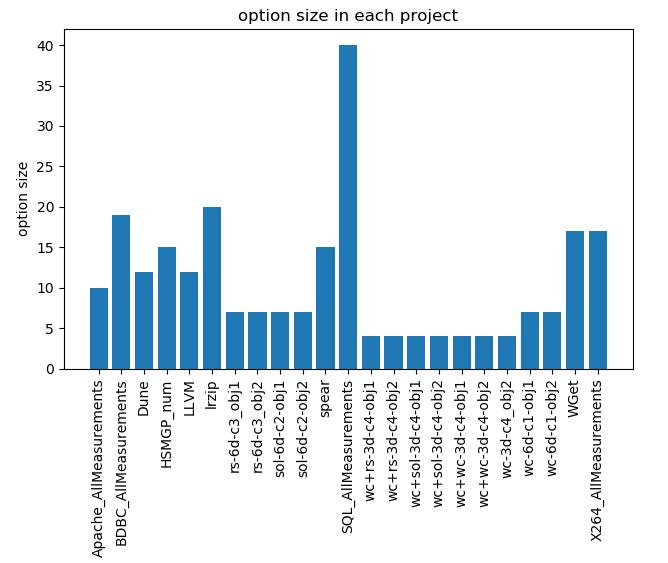
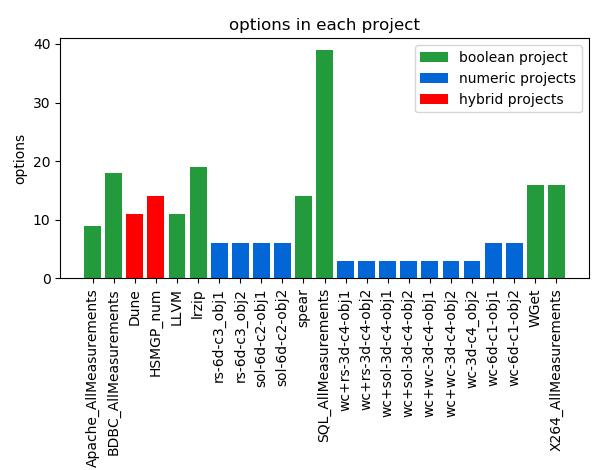
update figures

Changed region(s): [[0.0, 0.0, 0.9562, 1.0], [0.0617, 0.6553, 0.0925, 0.6851]]

diff --git a/experiments/figures_hy.py b/experiments/figures_hy.py
@@ -63,7 +63,7 @@ import numpy as np
 # index_2 = [10]
 # data_t_2 = [data[i] for i in index_2]
 
-# plt.ylabel("configurations")
+# plt.ylabel("configurations (in log scale)")
 # plt.bar(x, data,color="green",log=True)
 # plt.bar(index, data_t, color="blue",log=True)
 # plt.bar(index_2, data_t_2, color="red", log=True)
@@ -71,7 +71,7 @@ import numpy as np
 
 # plt.xticks(x, ('Apache_AllMeasurements', 'BDBC_AllMeasurements', 'Dune', 'HSMGP_num', 'LLVM', 'lrzip', 'rs-6d-c3_obj1', 'rs-6d-c3_obj2', 'sol-6d-c2-obj1', 'sol-6d-c2-obj2', 'spear', 'SQL_AllMeasurements', 'wc+rs-3d-c4-obj1', 'wc+rs-3d-c4-obj2', 'wc+sol-3d-c4-obj1', 'wc+sol-3d-c4-obj2', 'wc+wc-3d-c4-obj1', 'wc+wc-3d-c4-obj2', 'wc-3d-c4_obj2', 'wc-6d-c1-obj1', 'wc-6d-c1-obj2', 'WGet', 'X264_AllMeasurements'), rotation=90)
 # plt.title("configurations predicted as top 1 in each project")
-# plt.legend(["1 optimal config", "2 optimal configs", "1685 optimal configs"])
+# plt.legend(["1 optimal", "2 optimals", "1685 optimals"])
 
 # plt.show()
 
@@ -139,8 +139,8 @@ import numpy as np
 
 # plt.ylabel("rank difference")
 # plt.xticks(x, ('Apache_AllMeasurements', 'BDBC_AllMeasurements', 'Dune', 'HSMGP_num', 'LLVM', 'lrzip', 'rs-6d-c3_obj1', 'rs-6d-c3_obj2', 'sol-6d-c2-obj1', 'sol-6d-c2-obj2', 'spear', 'SQL_AllMeasurements', 'wc+rs-3d-c4-obj1', 'wc+rs-3d-c4-obj2', 'wc+sol-3d-c4-obj1', 'wc+sol-3d-c4-obj2', 'wc+wc-3d-c4-obj1', 'wc+wc-3d-c4-obj2', 'wc-3d-c4_obj2', 'wc-6d-c1-obj1', 'wc-6d-c1-obj2', 'WGet', 'X264_AllMeasurements'), rotation=90)
-# plt.title("Rank difference mearsured by 3 methods")
-# plt.legend(["MinR-MediaP", "MediaR-MediaP", "MinR (Nair 2017)"])
+# plt.title("rank difference mearsured by 3 methods")
+# plt.legend(["RD1", "RD2", "RD3"])
 
 # plt.show()
 
@@ -169,7 +169,7 @@ import numpy as np
 # plt.ylim(0,120)
 # plt.xlim(0,150)
 # plt.xlabel("number of configurations predicted as top 1")
-# plt.ylabel("(minR - mediaP)")
+# plt.ylabel("RD1")
 # plt.title("pearson correlation (p = 0.54)")
 
 # plt.subplot(132)
@@ -177,7 +177,7 @@ import numpy as np
 # plt.ylim(0,210)
 # plt.xlim(0,160)
 # plt.xlabel("number of configurations predicted as top 1")
-# plt.ylabel("(mediaR - mediaP)")
+# plt.ylabel("RD2")
 # plt.title("pearson correlation (p = 0.54)")
 
 # plt.subplot(133)
@@ -185,7 +185,7 @@ import numpy as np
 # plt.ylim(0,50)
 # plt.xlim(0,120)
 # plt.xlabel("number of configurations predicted as top 1")
-# plt.ylabel("rank difference")
+# plt.ylabel("RD3")
 # plt.title("pearson correlation (p = 0.06)")
 # plt.show()
 
@@ -203,37 +203,51 @@ import numpy as np
 # # print(projects)
 
 # proj_config = []
-# proj_features = []
+# proj_fea = []
 # for proj in projects:
 # 	pdcontent = pd.read_csv(proj)
 # 	proj_config.append(len(pdcontent))
-# 	proj_features.append(len(pdcontent.columns))
+# 	proj_fea.append(len(pdcontent.columns)-1)
 # 	# print("[project]:", proj, "[configuration]:", len(pdcontent))
 # print("[configurations]:", proj_config)
-# print("[option    size]:",proj_features)
+# print("[option    size]:",proj_fea)
 
 # x = range(len(proj_config))
 
 # # subplot 1. configuration contained in each project
-# num_index = [2,3,6,7,8,9,12,13,14,15,16,17,18,19,20]
+# num_index = [6,7,8,9,12,13,14,15,16,17,18,19,20]
 # num_proj_config = [proj_config[i] for i in num_index]
+
+# hyb_index = [2,3]
+# hyb_proj_config = [proj_config[i] for i in hyb_index]
 
 # plt.bar(x, proj_config, color="#239a3b")
 # plt.bar(num_index, num_proj_config, color="#0366d6")
+# plt.bar(hyb_index, hyb_proj_config, color="red")
 
 # plt.xticks(x, ('Apache_AllMeasurements', 'BDBC_AllMeasurements', 'Dune', 'HSMGP_num', 'LLVM', 'lrzip', 'rs-6d-c3_obj1', 'rs-6d-c3_obj2', 'sol-6d-c2-obj1', 'sol-6d-c2-obj2', 'spear', 'SQL_AllMeasurements', 'wc+rs-3d-c4-obj1', 'wc+rs-3d-c4-obj2', 'wc+sol-3d-c4-obj1', 'wc+sol-3d-c4-obj2', 'wc+wc-3d-c4-obj1', 'wc+wc-3d-c4-obj2', 'wc-3d-c4_obj2', 'wc-6d-c1-obj1', 'wc-6d-c1-obj2', 'WGet', 'X264_AllMeasurements'), rotation=90)
-# plt.ylabel("configuration size")
+# plt.ylabel("configurations")
 # # plt.ylim(10, 20000)
-# plt.title("configuration size in each project")
-# plt.legend(["boolean options","numeric options"])
+# plt.title("configurations in each project")
+# plt.legend(["boolean project","numeric projects", "hybrid projects"])
 
 # plt.show()
 
 # # subplot 2. option size in each project
-# plt.bar(x, proj_features)
+# num_index = [6,7,8,9,12,13,14,15,16,17,18,19,20]
+# num_proj_fea = [proj_fea[i] for i in num_index]
+
+# hyb_index = [2,3]
+# hyb_proj_fea = [proj_fea[i] for i in hyb_index]
+
+# plt.bar(x, proj_fea, color="#239a3b")
+# plt.bar(num_index, num_proj_fea, color="#0366d6")
+# plt.bar(hyb_index, hyb_proj_fea, color="red")
+
 # plt.xticks(x, ('Apache_AllMeasurements', 'BDBC_AllMeasurements', 'Dune', 'HSMGP_num', 'LLVM', 'lrzip', 'rs-6d-c3_obj1', 'rs-6d-c3_obj2', 'sol-6d-c2-obj1', 'sol-6d-c2-obj2', 'spear', 'SQL_AllMeasurements', 'wc+rs-3d-c4-obj1', 'wc+rs-3d-c4-obj2', 'wc+sol-3d-c4-obj1', 'wc+sol-3d-c4-obj2', 'wc+wc-3d-c4-obj1', 'wc+wc-3d-c4-obj2', 'wc-3d-c4_obj2', 'wc-6d-c1-obj1', 'wc-6d-c1-obj2', 'WGet', 'X264_AllMeasurements'), rotation=90)
-# plt.ylabel("option size")
-# plt.title("option size in each project")
+# plt.ylabel("options")
+# plt.title("options in each project")
+# plt.legend(["boolean project","numeric projects", "hybrid projects"])
 
 # plt.show()
 
@@ -296,16 +310,19 @@ import numpy as np
 # print(top_1_lst)
 # print(ave_count_percent_lst)
 
+###################################################################
+
 # x= range(len(ave_count_percent_lst))
 # plt.bar(x, ave_count_percent_lst)
 
 # plt.xticks(x, ('Apache_AllMeasurements', 'BDBC_AllMeasurements', 'Dune', 'HSMGP_num', 'LLVM', 'lrzip', 'rs-6d-c3_obj1', 'rs-6d-c3_obj2', 'sol-6d-c2-obj1', 'sol-6d-c2-obj2', 'spear', 'SQL_AllMeasurements', 'wc+rs-3d-c4-obj1', 'wc+rs-3d-c4-obj2', 'wc+sol-3d-c4-obj1', 'wc+sol-3d-c4-obj2', 'wc+wc-3d-c4-obj1', 'wc+wc-3d-c4-obj2', 'wc-3d-c4_obj2', 'wc-6d-c1-obj1', 'wc-6d-c1-obj2', 'WGet', 'X264_AllMeasurements'), rotation=90)
-# plt.ylabel("zero option ratio")
+# plt.ylabel("zero ratio")
 # # plt.ylim(10, 20000)
-# plt.title("zero option ratios in optimal configurations in each project")
+# plt.title("zero ratios in optimal configurations in each project")
 
 # plt.show()
 
+###################################################################
 
 # one_percent = [1/6, 1/6, 0, 1/3, 2/3, 1/3, 2/3, 1/3, 2/3, 1/3, 2/3, 1/3, 1/2]
 # x= range(len(one_percent))
@@ -318,6 +335,8 @@ import numpy as np
 
 # plt.show()
 
+###################################################################
+
 # zero_percent = [0.5, 0.66, 0.73, 0.84, 0.5, 0.28, 0.625, 0.5]
 # x= range(len(zero_percent))
 # plt.bar(x, zero_percent)
@@ -326,6 +345,28 @@ import numpy as np
 # plt.ylabel("ratio")
 # plt.ylim(0.0, 1.0)
 # plt.title("zero ratios in optimal configurations in boolean projects")
+
+# plt.show()
+
+###################################################################
+
+# zero_lowest_percent = [7/11, 11/14]
+# zero_percent = [6/8, 9/11]
+# lowest_persent = [1/3, 2/3] 
+
+# x= [1, 1.5]
+# x_2 = [i+0.1 for i in x]
+# x_3 = [i+0.2 for i in x]
+
+# plt.bar(x, zero_percent, width=0.1)
+# plt.bar(x_2, lowest_persent, width=0.1)
+# plt.bar(x_3, zero_lowest_percent, width=0.1)
+
+# plt.xticks(x, ('Dune', 'HSMGP_num'), rotation=90)
+# plt.ylabel("ratio")
+# plt.ylim(0.0, 1.0)
+# plt.title("zero/lowest ratios in optimal configurations in hybrid projects")
+# plt.legend(["zero ratio", "lowest ratio", "hybrid ratio"])
 
 # plt.show()
 
@@ -348,7 +389,7 @@ import numpy as np
 # for proj in projects:
 # 	pdcontent = pd.read_csv(proj)
 # 	proj_config.append(len(pdcontent))
-# 	proj_features.append(len(pdcontent.columns))
+# 	proj_features.append(len(pdcontent.columns)-1)
 # 	# print("[project]:", proj, "[configuration]:", len(pdcontent))
 # print("[configurations]:", proj_config)
 # print("[option    size]:",proj_features)
